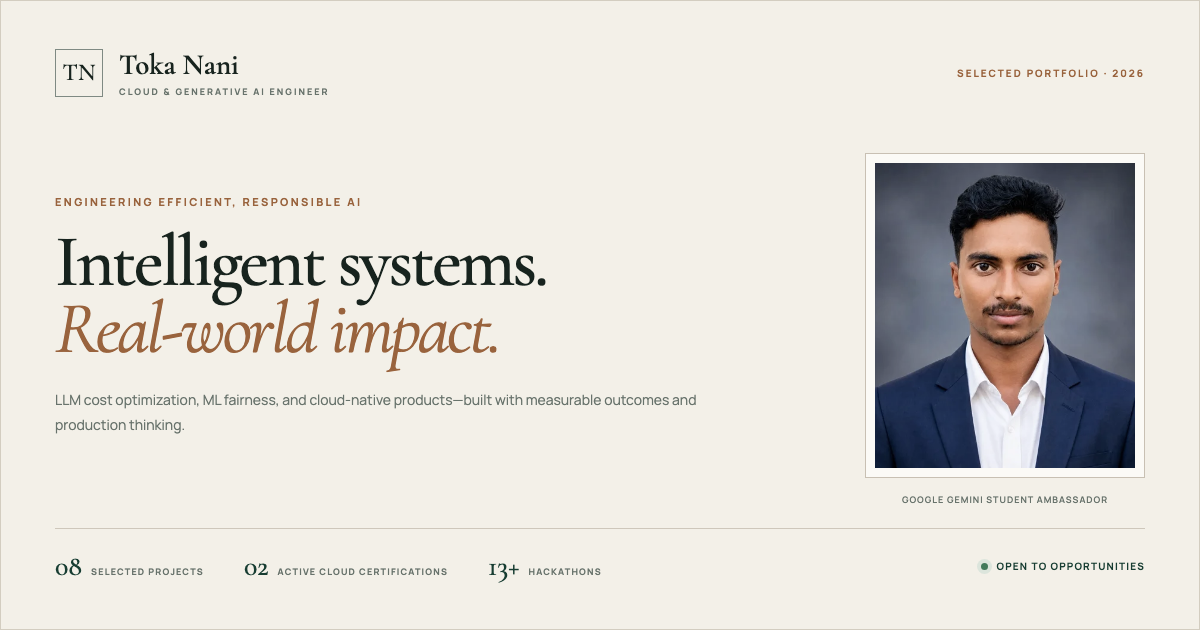
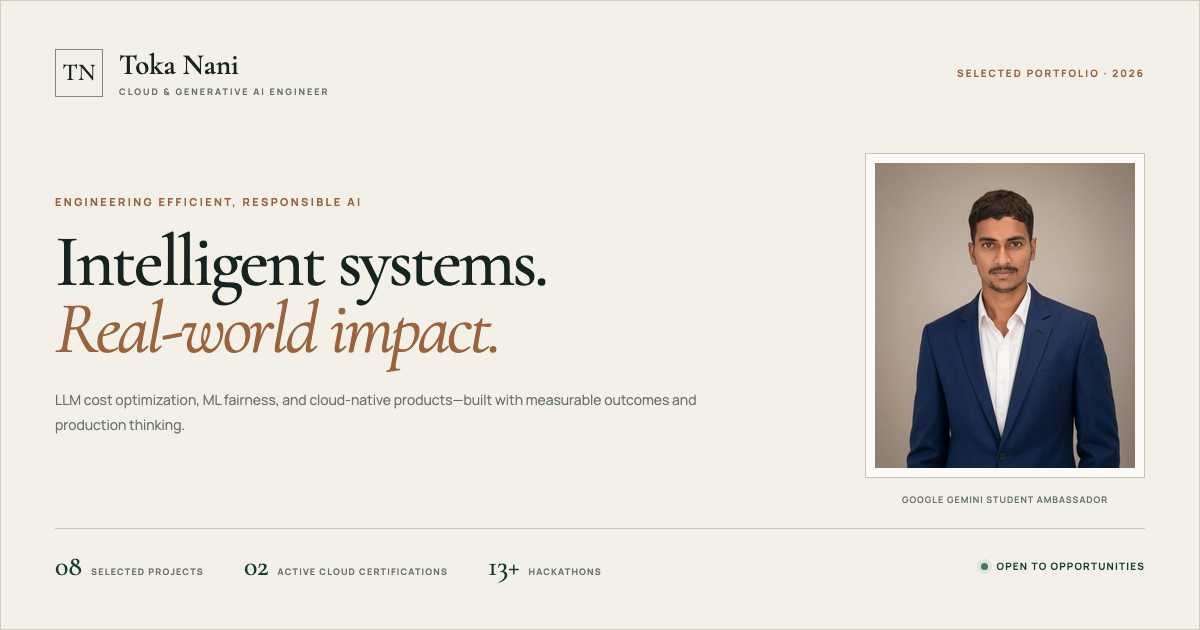
feat: refresh hero with professional portrait
Use a consistent editorial headshot across the portfolio hero and social preview.

Changed region(s): [[0.7092, 0.2413, 0.9558, 0.754]]

diff --git a/src/components/Hero.tsx b/src/components/Hero.tsx
@@ -52,8 +52,8 @@ export const Hero: React.FC<HeroProps> = ({ onOpenResume }) => {
             transition={{ duration: 0.85, delay: 0.15, ease: [0.22, 1, 0.36, 1] }}
           >
             <picture>
-              <source srcSet="/toka-profile.webp" type="image/webp" />
-              <img src="/toka-profile.jpg" alt="Portrait of Toka Nani in a navy suit" width={512} height={640} loading="eager" className="portrait-image" />
+              <source srcSet="/toka-profile-editorial-v2.webp" type="image/webp" />
+              <img src="/toka-profile-editorial-v2.jpg" alt="Portrait of Toka Nani in a navy suit" width={512} height={640} loading="eager" className="portrait-image" />
             </picture>
             <figcaption className="portrait-caption">
               <span className="block text-[0.6rem] font-bold uppercase tracking-[0.18em] text-[#d8b18b]">Leadership · 2026</span>

diff --git a/dist/index.html b/dist/index.html
@@ -37,7 +37,7 @@
     "sameAs": ["https://github.com/NaniToka", "https://linkedin.com/in/toka-nani-33a124359"]
   }
   </script>
-  <script type="module" crossorigin src="/assets/index-BFcpf6KU.js"></script>
+  <script type="module" crossorigin src="/assets/index-BWmiqpRm.js"></script>
   <link rel="stylesheet" crossorigin href="/assets/index-Bjdte6Yc.css">
 </head>
 <body>
